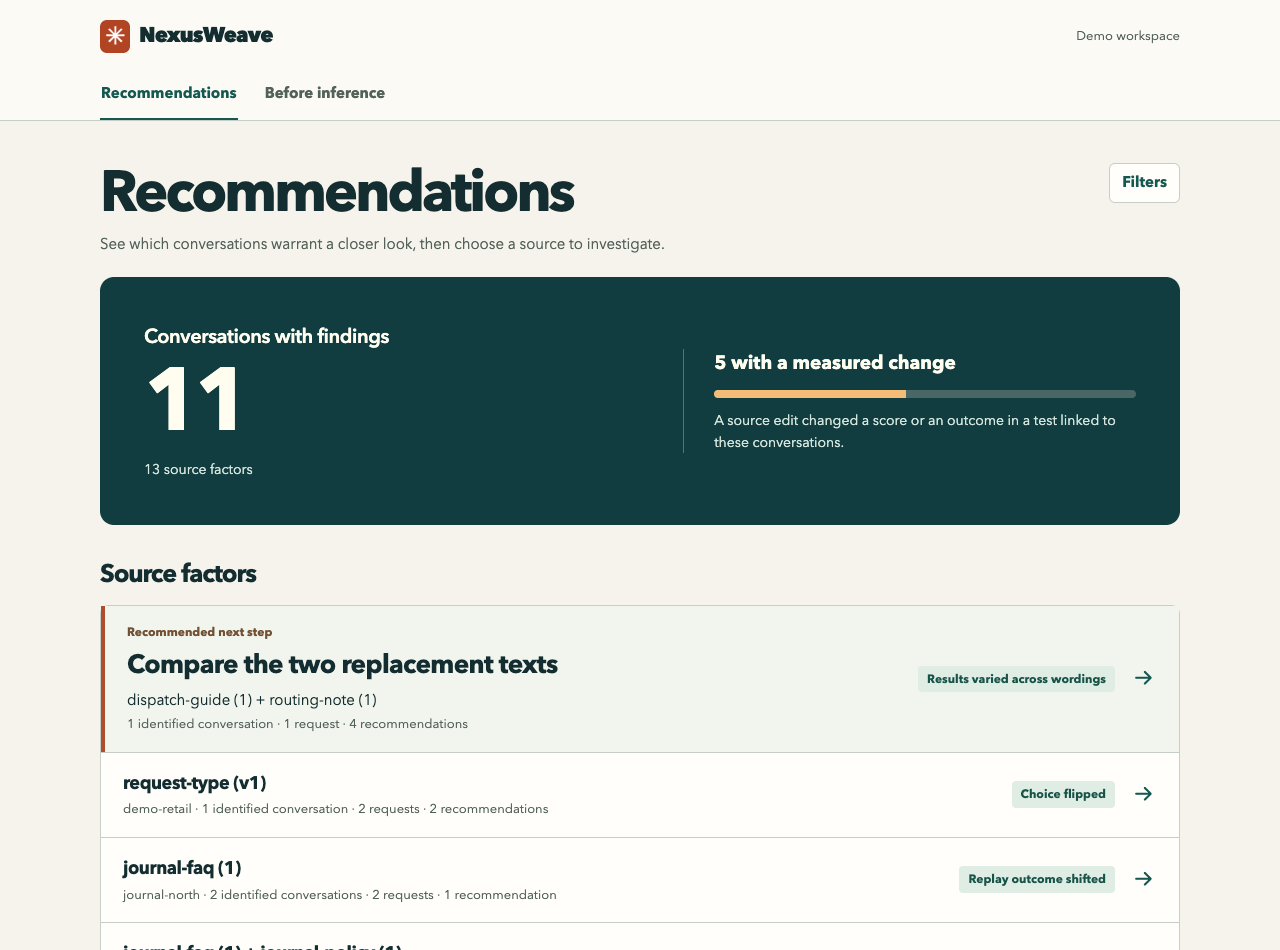
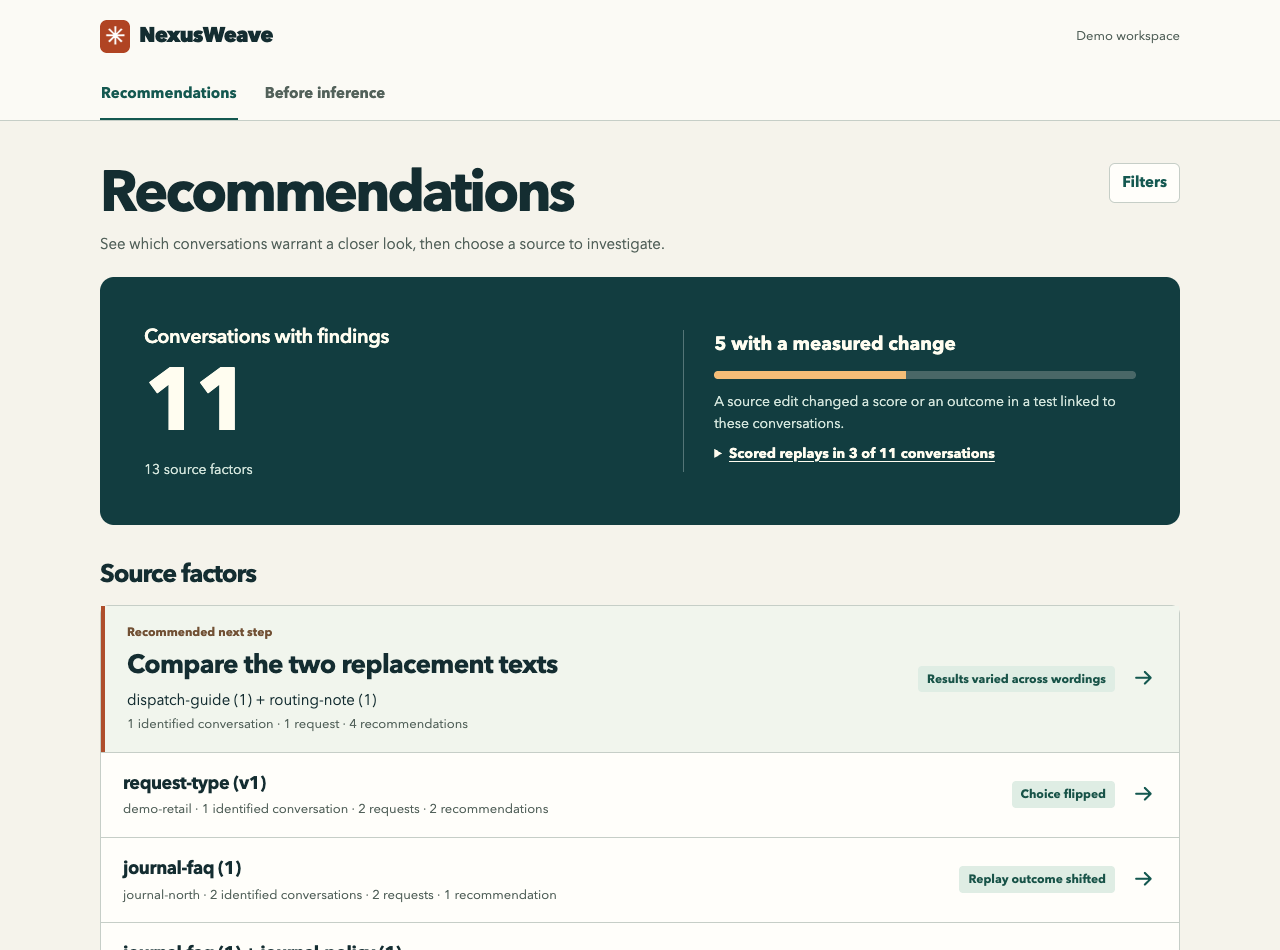
Show which conversations have scored replay evidence

Changed region(s): [[0.5625, 0.3358, 0.9062, 0.4884]]

diff --git a/ui/sidecar.js b/ui/sidecar.js
@@ -179,6 +179,20 @@ function factorName(sources) {
   return sources.map((source) => sourceName(source) + (source.version ? " (" + source.version + ")" : "")).join(" + ");
 }
 
+function replayCoverage(impact) {
+  const counts = impact.replay_outcomes;
+  const tested = impact.conversations - counts.unmeasured;
+  return element("details", { className: "replay-coverage" },
+    element("summary", { text: "Scored replays in " + tested + " of " + plural(impact.conversations, "conversation") }),
+    element("p", { text: "Each conversation counts once. Tests compare how often the answer or tool call matched the recorded outcome." }),
+    element("dl", {}, ...[
+      ["Every scored comparison changed the match rate", counts.changed_only],
+      ["Every scored comparison had equal match rates", counts.equal_only],
+      ["Some comparisons changed the rate and others held steady", counts.mixed],
+      ["No scored replay in these findings", counts.unmeasured],
+    ].map(([label, count]) => element("div", {}, element("dt", { text: label }), element("dd", { text: count })))));
+}
+
 function impactPanel(impact) {
   return element("section", { className: "impact", "aria-label": "Conversation impact" },
     element("div", {}, element("h2", { text: "Conversations with findings" }),
@@ -188,7 +202,8 @@ function impactPanel(impact) {
       element("strong", { text: impact.changed + " with a measured change" }),
       element("meter", { min: 0, max: Math.max(1, impact.conversations), value: impact.changed,
         "aria-label": "Conversations with a change under a tested edit" }),
-      element("p", { text: "A source edit changed a score or an outcome in a test linked to these conversations." })));
+      element("p", { text: "A source edit changed a score or an outcome in a test linked to these conversations." }),
+      replayCoverage(impact)));
 }
 
 function factorRow(factor, featured = false) {
@@ -522,10 +537,12 @@ async function render(refresh = false) {
       if (cards.rows.length) body = review(cards.rows[0], occurrences);
       pagination(occurrences.next_offset, { recommendation: recommendationId, factor: factorId });
     } else if (factorId) {
-      const data = await api("findings", { ...scope, factor: factorId, offset: pageOffset });
+      const filters = { ...scope, factor: factorId };
+      const [data, impact] = await Promise.all([api("findings", { ...filters, offset: pageOffset }), api("impact", filters)]);
       byId("title").textContent = data.rows.length ? factorName(data.rows[0].evidence.detail.sources) : "Source factor";
       byId("summary").textContent = "Each recommendation below uses its own comparison and outcome.";
       body = element("div", { className: "feed" }, link("All source factors", url({})),
+        data.rows.length ? replayCoverage(impact) : null,
         ...data.rows.map(findingCard), !data.rows.length ? element("p", { className: "empty", text: "No evidence in this scope." }) : null);
       pagination(data.next_offset, { factor: factorId });
     } else {

diff --git a/ui/sidecar.css b/ui/sidecar.css
@@ -121,6 +121,12 @@ meter { width: 100%; height: 12px; accent-color: var(--accent); }
 .impact-breakdown meter { display: block; height: 16px; margin-block: 8px; }
 .impact-breakdown meter::-webkit-meter-bar { background: #496767; border: 0; }
 .impact-breakdown meter::-webkit-meter-optimum-value { background: #f4bd77; }
+.replay-coverage { padding-block: 8px; font-size: 14px; }
+.replay-coverage summary { font-weight: 650; text-decoration: underline; text-underline-offset: 3px; }
+.replay-coverage p { margin-block: 10px; }
+.replay-coverage dl { margin: 0; }
+.replay-coverage dl div { display: flex; align-items: baseline; justify-content: space-between; gap: 16px; padding-block: 4px; }
+.replay-coverage dd { margin: 0; font-weight: 700; font-variant-numeric: tabular-nums; }
 .factors { margin-top: 30px; }
 .factors h2 { font-size: 25px; letter-spacing: -.045em; margin-bottom: 12px; }
 .list > li > .factor-row { display: grid; grid-template-columns: minmax(0,1fr) auto 24px; align-items: center; gap: 18px; padding: 17px 22px; color: var(--ink); }

diff --git a/scripts/check_sidecar.py b/scripts/check_sidecar.py
@@ -260,6 +260,10 @@ def check_replay_representative(base):
     assert card["traces"] == 2 and card["latest"] > card["evidence"]["observed"]
     assert card["evidence"]["trace_id"] == changed_report["location"]["run_id"]
     assert card["evidence"]["detail"]["effect_pp"] == -100.0
+    outcomes = get(base, "impact")["replay_outcomes"]
+    assert outcomes == {"mixed": 1, "changed_only": 0, "equal_only": 1, "unmeasured": 0}, outcomes
+    outcomes = get(base, "impact", factor=card["evidence"]["detail"]["factor"])["replay_outcomes"]
+    assert outcomes == {"mixed": 0, "changed_only": 1, "equal_only": 1, "unmeasured": 0}, outcomes
 
 
 def check_predecision_recommendations(base):
@@ -359,6 +363,7 @@ def rank(base, cohort, send_trace=send_traces):
     rows = get(base, "findings", org=cohort)["rows"]
     impact = get(base, "impact", org=cohort)
     assert impact["conversations"] == 4 and impact["changed"] == 0, impact
+    assert impact["replay_outcomes"] == {"mixed": 0, "changed_only": 0, "equal_only": 0, "unmeasured": 4}
     factors = get(base, "factors", org=cohort)["rows"]
     assert impact["factors"] == len(factors)
     assert get(base, "impact", org=cohort, user="absent")["conversations"] == 0
@@ -448,7 +453,8 @@ def load(base, clients, batches, batch_size, payload_bytes):
         impact = get(base, "impact", org=org)
         factors = get(base, "factors", org=org)
         reads.append(1000 * (time.monotonic() - start))
-        assert impact == {"conversations": batch_size, "changed": 0, "unlinked_requests": 0, "factors": batches}
+        assert impact == {"conversations": batch_size, "changed": 0, "unlinked_requests": 0, "factors": batches,
+                          "replay_outcomes": {"mixed": 0, "changed_only": 0, "equal_only": 0, "unmeasured": batch_size}}
         assert len(factors["rows"]) == min(batches, 15)
     return {"responses": {code: sum(status == code for status, _ in outcomes) for code in codes},
             "wall_s": round(elapsed, 3), "p95_successful_export_ms": round(timings[int((len(timings) - 1) * 0.95)], 2),

diff --git a/src/sidecar/store.rs b/src/sidecar/store.rs
@@ -334,8 +334,18 @@ impl Store {
         }
         match view {
             "impact" => {
-                sql.push_str(" SELECT json_object('conversations',count(DISTINCT thread_key),
+                sql.push_str(", replay_by_thread AS (
+                    SELECT thread_key, max(kind='replay' AND changed=1) AS shifted,
+                        max(kind='replay' AND json_extract(detail,'$.effect_pp')=0) AS held
+                    FROM events WHERE thread_key IS NOT NULL GROUP BY thread_key
+                ) SELECT json_object('conversations',count(DISTINCT thread_key),
                     'changed',count(DISTINCT CASE WHEN changed=1 THEN thread_key END),
+                    'replay_outcomes',(SELECT json_object(
+                        'changed_only',count(*) FILTER (WHERE shifted AND NOT held),
+                        'equal_only',count(*) FILTER (WHERE held AND NOT shifted),
+                        'mixed',count(*) FILTER (WHERE shifted AND held),
+                        'unmeasured',count(*) FILTER (WHERE NOT shifted AND NOT held))
+                        FROM replay_by_thread),
                     'unlinked_requests',count(DISTINCT CASE WHEN thread_key IS NULL THEN trace_id END),
                     'factors',count(DISTINCT factor)) FROM events");
                 let row: String = self.0.query_row(&sql, params_from_iter(args), |row| row.get(0))?;

diff --git a/docs/sidecar.md b/docs/sidecar.md
@@ -22,6 +22,8 @@ All four routes return JSON. Pass the same `org`, `user`, `workflow`, UTC dates 
 | `findings?factor=…` | Get the recommendations for that factor. Each includes an action, comparison details and an example occurrence. Use `group` to select a recommendation by ID. |
 | `occurrences?factor=…&group=…` | Page through the individual observations behind the recommendation. Each row carries its own measurement, request and call IDs, and conversation key when available. |
 
+Expand **Scored replays** on the overview or a source factor to see how many conversations had changed match rates, equal rates, both results across comparisons, or no scored replay. The four counts in `impact.replay_outcomes` add up to the identified conversations with findings in that scope. Probe scores contribute to the broader measured-change count. Only replay comparisons contribute to this breakdown. Two equal match rates can come from as little as one trial per arm. Open the recommendation to check the trial counts and scoring rule.
+
 ### Preview an assembled request
 
 Open **Before inference** and load a preflight request or a request bundled with previously measured probe reports. The workflow can also call `POST /api/sidecar/preview` with a JSON object containing `request` and optional `candidate` or `shadow` reports. The response includes the evidence and suggested next step. This route uses the bounded worker, processes the request in memory, and makes zero model calls. Use it as a separate check when the workflow needs a result before dispatching the original request. [Preflight format](guide.md#check-context-before-inference) · [Pending inspection format](../schema/pending-inspection-1.json)
